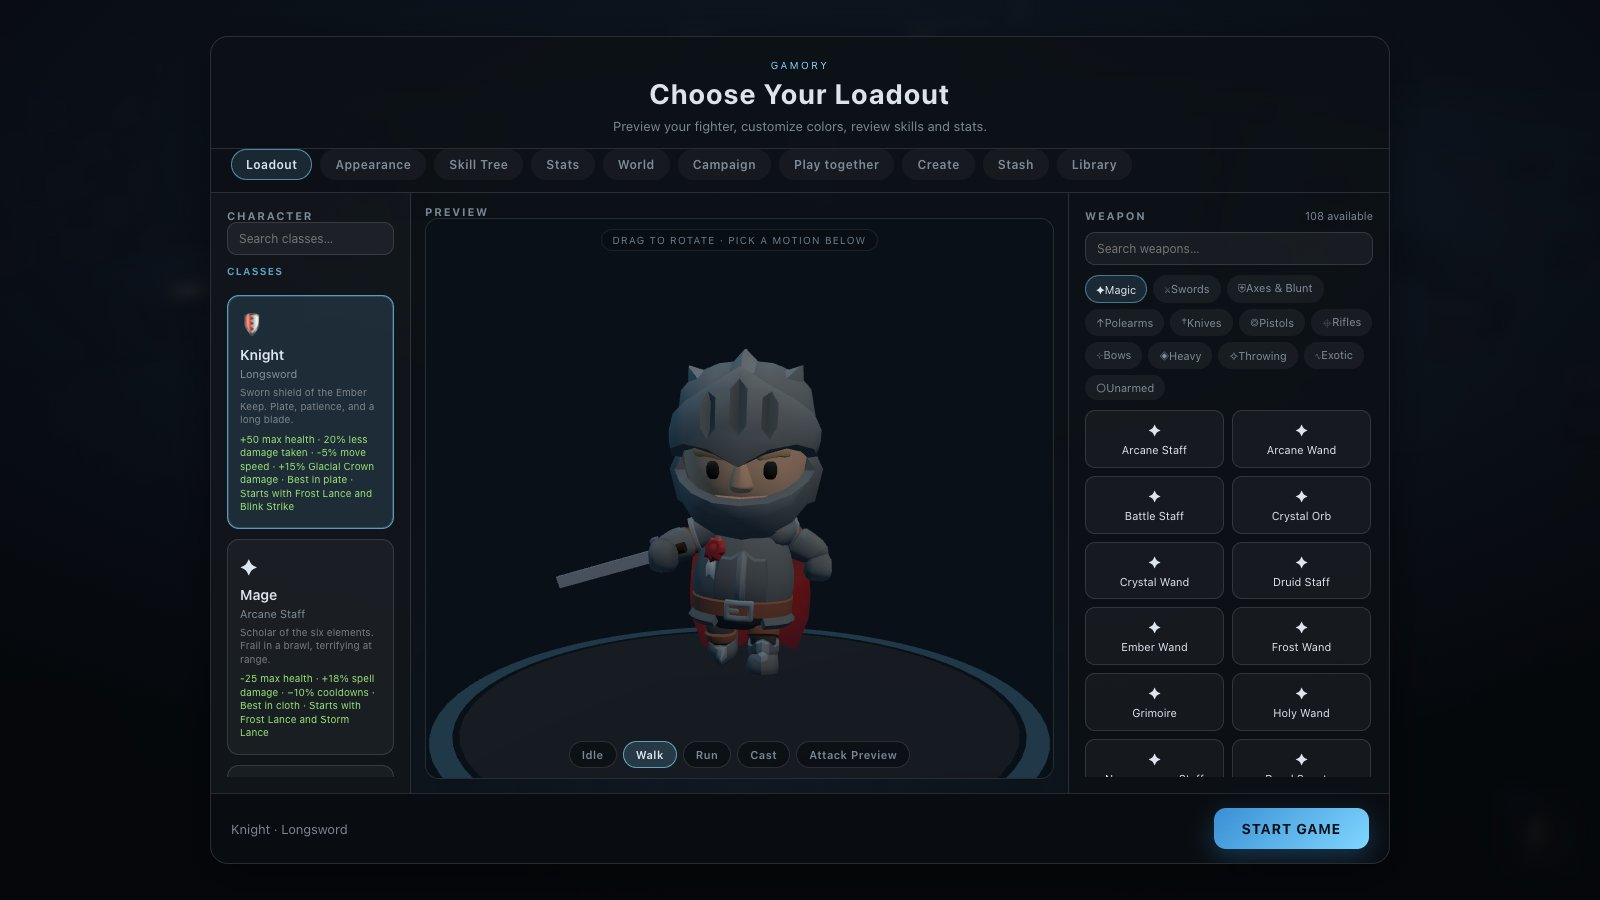
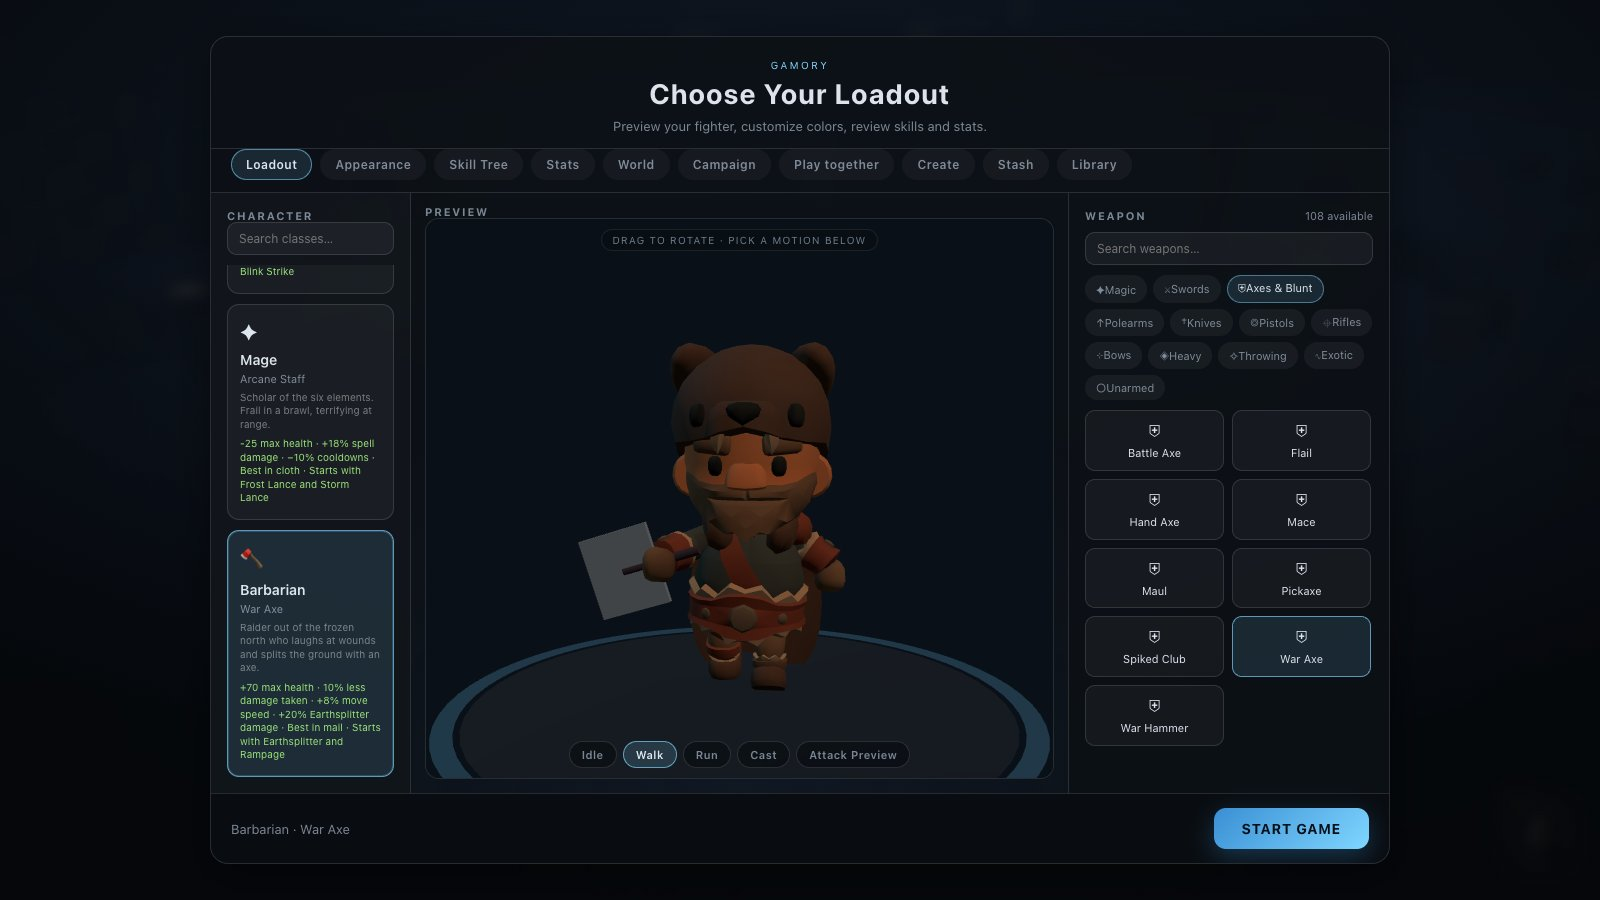
Open the README with the Barbarian's loadout, not a second Knight shot
loadout.jpg showed the same screen as class-knight.jpg further down; it
now shows the Barbarian with its war axe on the Axes & Blunt tab.

diff --git a/README.md b/README.md
@@ -14,7 +14,7 @@ for players: see [Production](docs/production.md).
 </p>
 <p>
   <img src="docs/screenshots/sunny-battle.jpg" width="49%" alt="Nova Beam blasting an Iron Brute in a sunny pine clearing under a blue sky" />
-  <img src="docs/screenshots/loadout.jpg" width="49%" alt="Main menu: the Knight in the character preview, with its bonuses, armor class and the weapon list" />
+  <img src="docs/screenshots/loadout.jpg" width="49%" alt="Main menu: the Barbarian holding a war axe in the character preview, its bonuses on the class card, and the Axes &amp; Blunt weapon tab" />
 </p>
 
 ## Quick start
